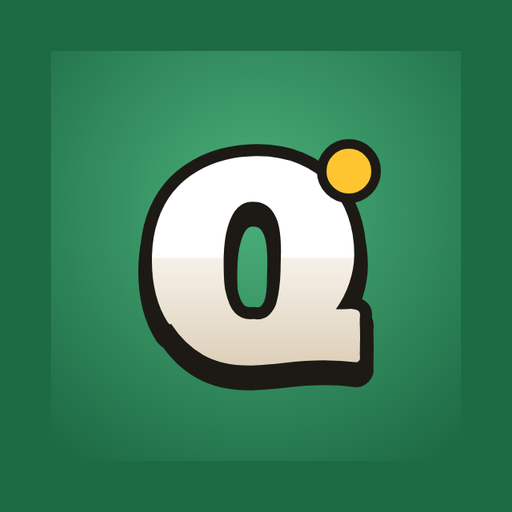
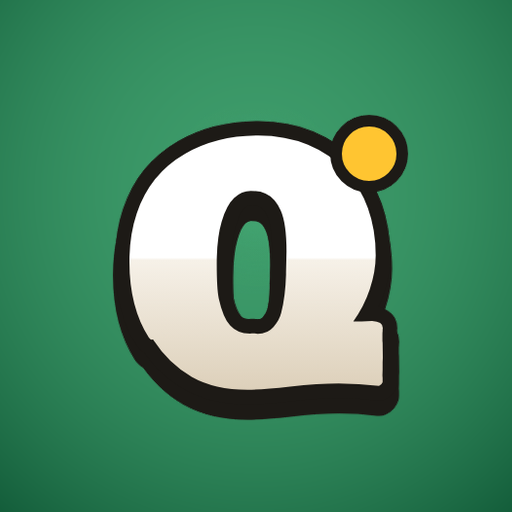
App-Symbol für Android (maskable): Hintergrund durchgehend statt hellem Quadrat im Kreis
Claude-Session: https://claude.ai/code/session_01Pf8CYh7ScKm5Ejk3dcJa2q

diff --git a/sw.js b/sw.js
@@ -1,6 +1,6 @@
 // Qwerbeet als App: erst das Netz fragen (immer die neueste Version), ohne Netz kommt die gespeicherte Fassung.
 // Online-Spiele brauchen weiter Internet, alles an einem Gerät läuft auch offline.
-const C = 'qwerbeet-v2', FILES = ['./', './index.html', './peerjs.min.js', './manifest.webmanifest', './icon-180.png', './icon-192.png', './icon-512.png', './icon-maskable-512.png'];
+const C = 'qwerbeet-v3', FILES = ['./', './index.html', './peerjs.min.js', './manifest.webmanifest', './icon-180.png', './icon-192.png', './icon-512.png', './icon-maskable-512.png'];
 self.addEventListener('install', e => { e.waitUntil(caches.open(C).then(c => c.addAll(FILES)).then(() => self.skipWaiting())); });
 self.addEventListener('activate', e => { e.waitUntil(caches.keys().then(ks => Promise.all(ks.filter(k => k !== C).map(k => caches.delete(k)))).then(() => self.clients.claim())); });
 // Netz zuerst, aber höchstens 4 s warten: bei sehr schlechtem Netz kommt dann die gespeicherte Fassung (falls vorhanden)
